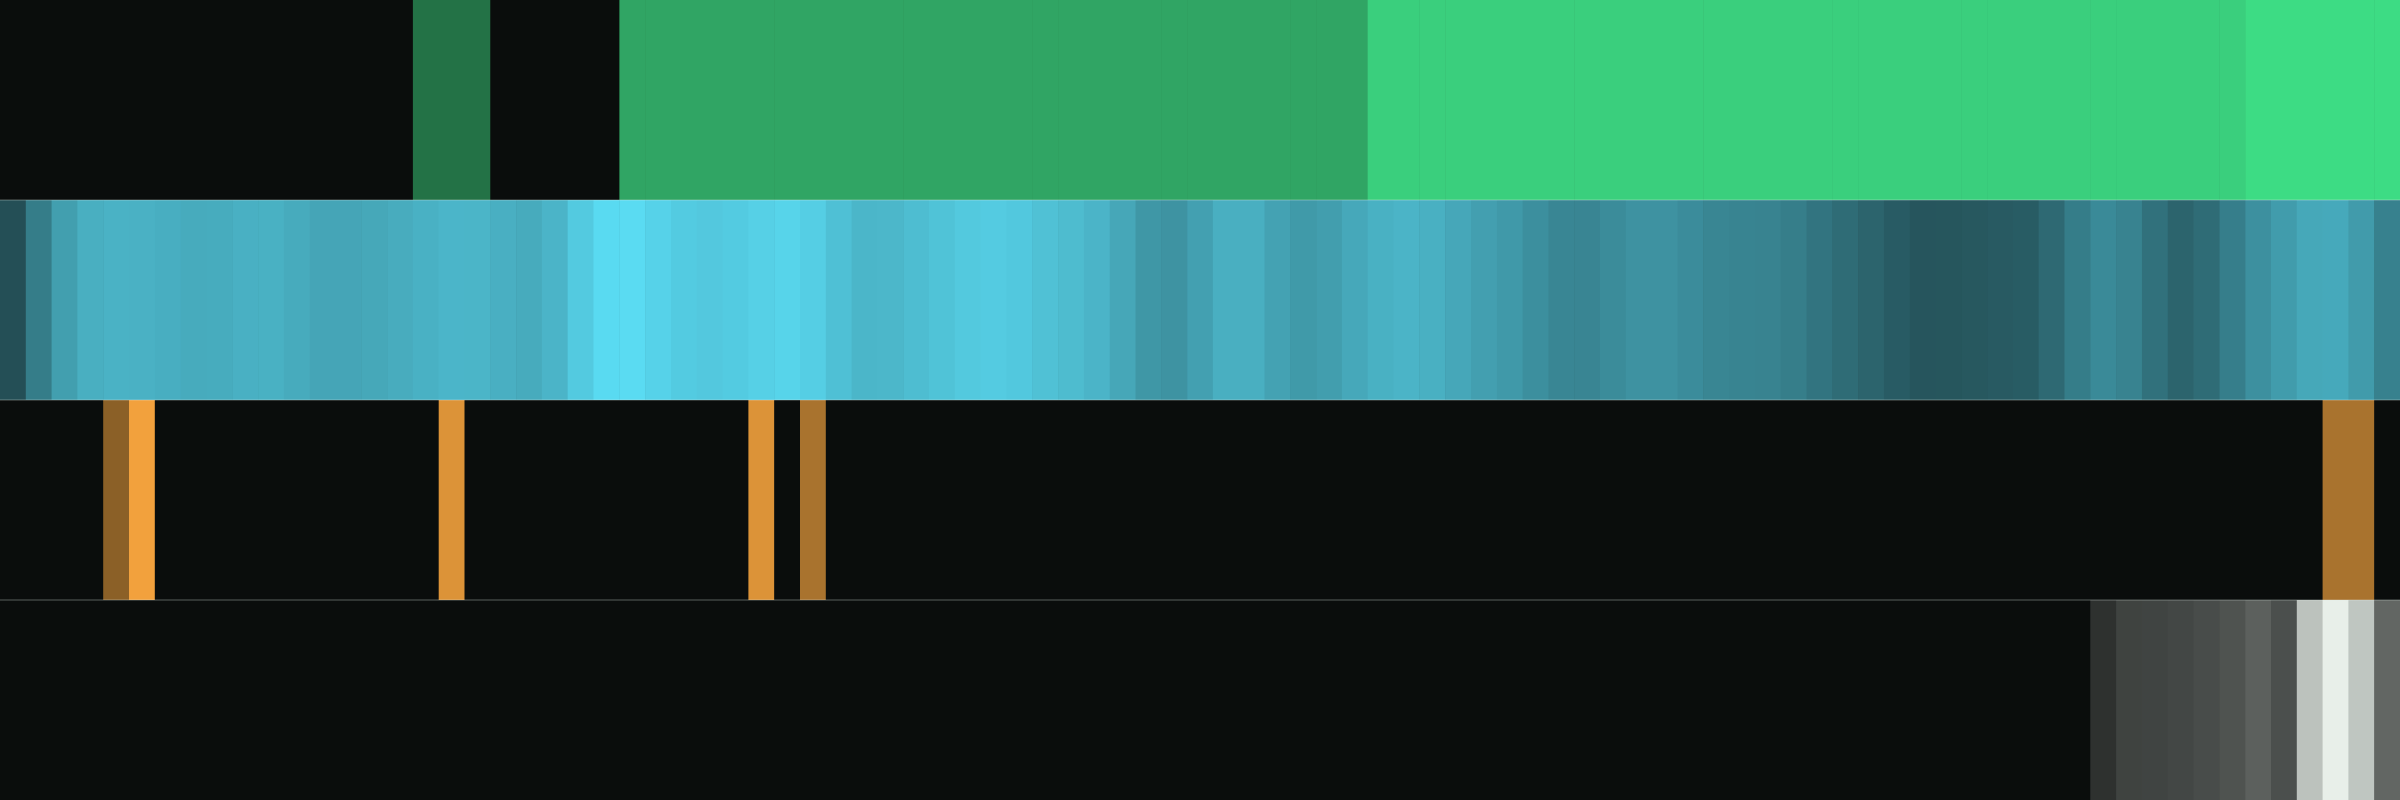
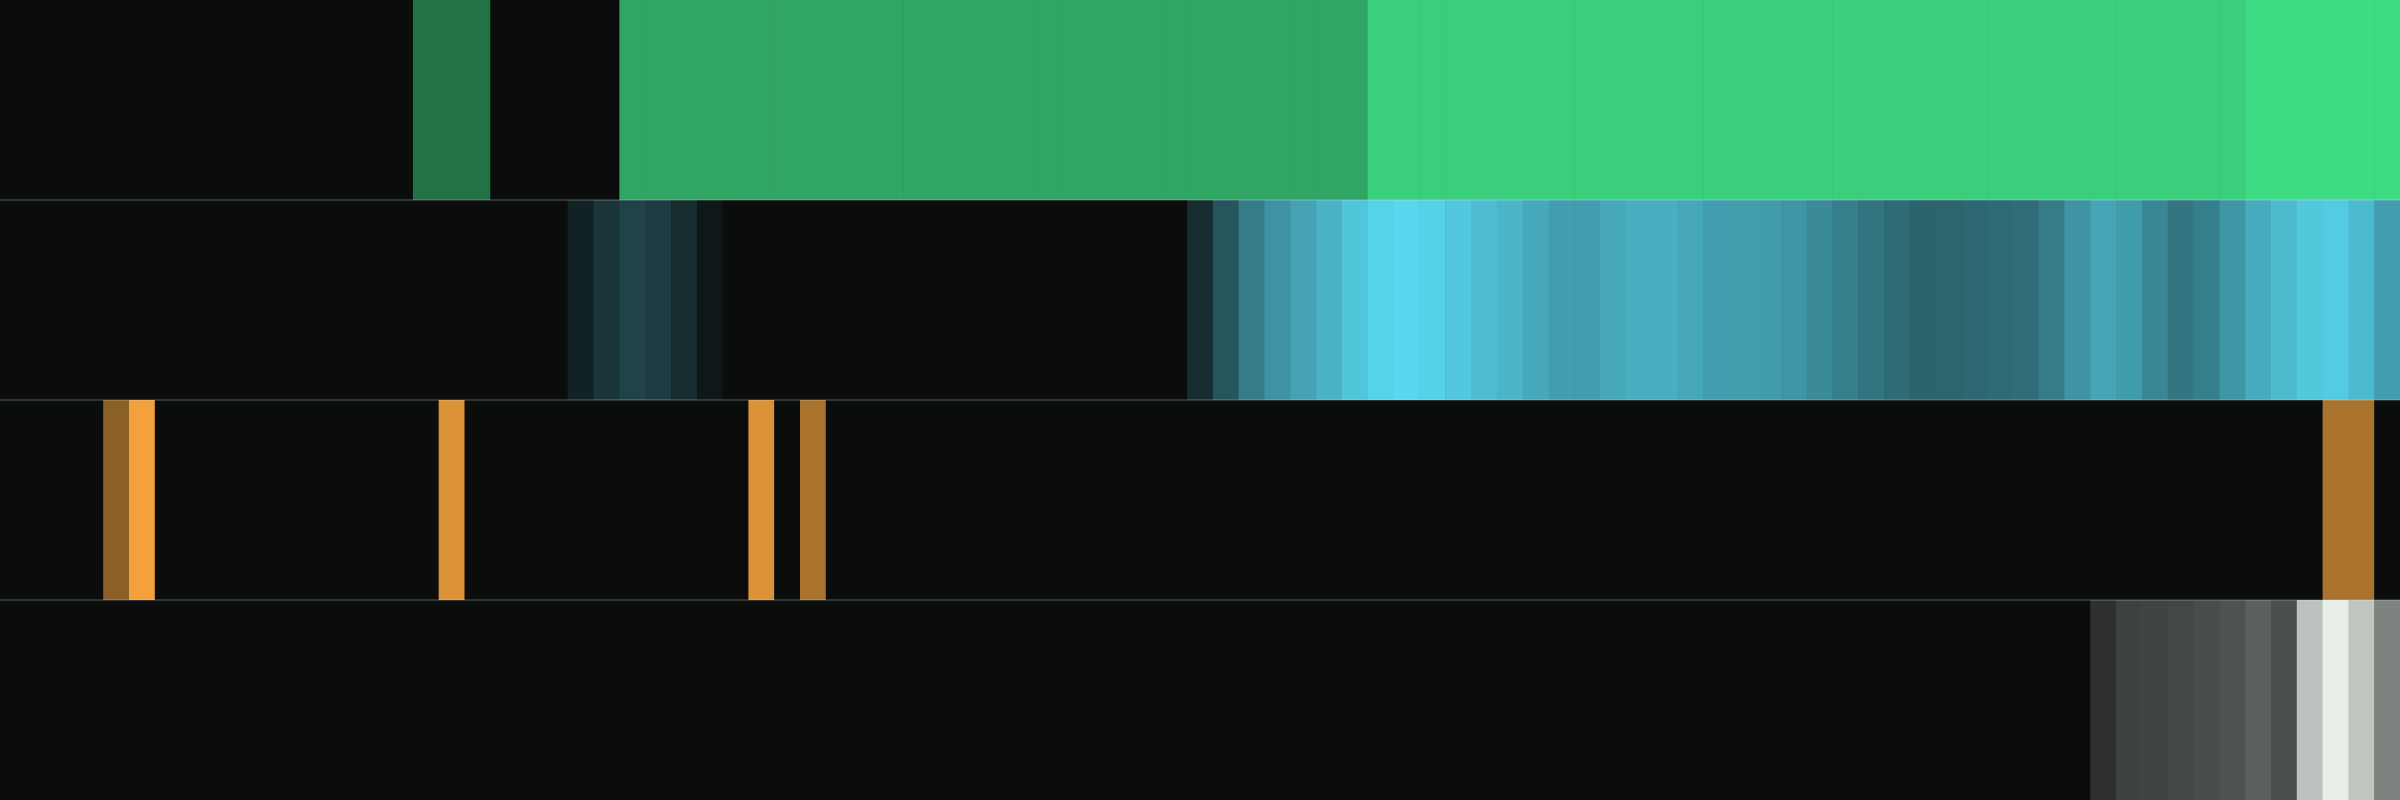
chore: regenerate derived data for today's date
Generator outputs only — timestamps, the sitemap's lastmod dates, and
the chess/world lanes' live archive data refreshed by their own
generators (gen-timeline, gen-world-plate, gen-system-graph). No hand
edits.

Changed region(s): [[0.0, 0.25, 0.75, 0.5], [0.8438, 0.25, 1.0, 0.5], [0.9688, 0.75, 1.0, 1.0]]

diff --git a/src/data/timeline.ts b/src/data/timeline.ts
@@ -25,7 +25,7 @@ export interface Timeline {
 }
 
 export const timeline: Timeline = {
-  "generatedAt": "2026-09-04T22:20:23.131Z",
+  "generatedAt": "2026-09-07T08:02:07.169Z",
   "from": "2019-01",
   "to": "2026-09",
   "months": [
@@ -397,65 +397,65 @@ export const timeline: Timeline = {
       "source": "lichess game archive plus chess.com monthly archives, one row per game, from BOTH platforms, because he moved from one to the other in 2023 and a lane built on either alone reads as though he stopped",
       "months": {
         "2019-01": 0,
-        "2019-02": 81,
-        "2019-03": 220,
-        "2019-04": 317,
-        "2019-05": 195,
-        "2019-06": 264,
-        "2019-07": 266,
-        "2019-08": 184,
-        "2019-09": 184,
-        "2019-10": 266,
-        "2019-11": 301,
-        "2019-12": 203,
-        "2020-01": 136,
-        "2020-02": 236,
-        "2020-03": 173,
-        "2020-04": 220,
-        "2020-05": 239,
-        "2020-06": 292,
-        "2020-07": 274,
-        "2020-08": 271,
-        "2020-09": 177,
-        "2020-10": 135,
-        "2020-11": 495,
-        "2020-12": 619,
-        "2021-01": 606,
-        "2021-02": 370,
-        "2021-03": 390,
-        "2021-04": 377,
-        "2021-05": 361,
-        "2021-06": 431,
-        "2021-07": 514,
-        "2021-08": 505,
-        "2021-09": 325,
-        "2021-10": 152,
-        "2021-11": 315,
-        "2021-12": 339,
-        "2022-01": 296,
-        "2022-02": 393,
-        "2022-03": 442,
-        "2022-04": 466,
-        "2022-05": 221,
-        "2022-06": 358,
-        "2022-07": 287,
-        "2022-08": 209,
-        "2022-09": 126,
-        "2022-10": 51,
-        "2022-11": 162,
-        "2022-12": 355,
-        "2023-01": 268,
-        "2023-02": 168,
-        "2023-03": 83,
-        "2023-04": 158,
-        "2023-05": 246,
-        "2023-06": 202,
-        "2023-07": 329,
-        "2023-08": 253,
-        "2023-09": 205,
+        "2019-02": 0,
+        "2019-03": 0,
+        "2019-04": 0,
+        "2019-05": 0,
+        "2019-06": 0,
+        "2019-07": 0,
+        "2019-08": 0,
+        "2019-09": 0,
+        "2019-10": 0,
+        "2019-11": 0,
+        "2019-12": 0,
+        "2020-01": 0,
+        "2020-02": 0,
+        "2020-03": 0,
+        "2020-04": 0,
+        "2020-05": 0,
+        "2020-06": 0,
+        "2020-07": 0,
+        "2020-08": 0,
+        "2020-09": 0,
+        "2020-10": 0,
+        "2020-11": 0,
+        "2020-12": 0,
+        "2021-01": 17,
+        "2021-02": 2,
+        "2021-03": 0,
+        "2021-04": 0,
+        "2021-05": 0,
+        "2021-06": 0,
+        "2021-07": 0,
+        "2021-08": 0,
+        "2021-09": 0,
+        "2021-10": 0,
+        "2021-11": 0,
+        "2021-12": 0,
+        "2022-01": 0,
+        "2022-02": 0,
+        "2022-03": 0,
+        "2022-04": 0,
+        "2022-05": 0,
+        "2022-06": 0,
+        "2022-07": 0,
+        "2022-08": 0,
+        "2022-09": 0,
+        "2022-10": 0,
+        "2022-11": 0,
+        "2022-12": 0,
+        "2023-01": 71,
+        "2023-02": 98,
+        "2023-03": 47,
+        "2023-04": 141,
+        "2023-05": 245,
+        "2023-06": 200,
+        "2023-07": 328,
+        "2023-08": 251,
+        "2023-09": 204,
         "2023-10": 99,
         "2023-11": 238,
-        "2023-12": 104,
+        "2023-12": 95,
         "2024-01": 49,
         "2024-02": 95,
         "2024-03": 98,
@@ -468,7 +468,7 @@ export const timeline: Timeline = {
         "2024-10": 83,
         "2024-11": 34,
         "2024-12": 47,
-        "2025-01": 31,
+        "2025-01": 28,
         "2025-02": 19,
         "2025-03": 9,
         "2025-04": 20,
@@ -488,12 +488,12 @@ export const timeline: Timeline = {
         "2026-06": 296,
         "2026-07": 272,
         "2026-08": 205,
-        "2026-09": 33
+        "2026-09": 44
       },
-      "total": 18995,
+      "total": 4887,
       "peak": {
-        "ym": "2020-12",
-        "v": 619
+        "ym": "2023-07",
+        "v": 328
       }
     },
     {
@@ -721,10 +721,10 @@ export const timeline: Timeline = {
         "2026-05": 49,
         "2026-06": 1391,
         "2026-07": 2906,
-        "2026-08": 1481,
-        "2026-09": 131
+        "2026-08": 1479,
+        "2026-09": 333
       },
-      "total": 6437,
+      "total": 6637,
       "peak": {
         "ym": "2026-07",
         "v": 2906

diff --git a/src/data/ops.ts b/src/data/ops.ts
@@ -23,13 +23,13 @@ export const perimeter = [
   },
   {
     "file": "systemGraph.ts",
-    "generatedAt": "2026-09-06",
+    "generatedAt": "2026-09-07",
     "slaDays": 45,
     "generator": "npm run gen:system-graph"
   },
   {
     "file": "timeline.ts",
-    "generatedAt": "2026-09-04",
+    "generatedAt": "2026-09-07",
     "slaDays": 45,
     "generator": "npm run gen:timeline"
   },
@@ -213,4 +213,4 @@ export const drift: Drift[] = [
   }
 ];
 
-export const opsGeneratedAt = "2026-09-06";
+export const opsGeneratedAt = "2026-09-07";

diff --git a/src/data/systemGraph.ts b/src/data/systemGraph.ts
@@ -13,7 +13,7 @@ export interface SystemEdge { from: string; to: string; kind: SystemEdgeKind; ev
 export interface SystemGraph { generatedAt: string; nodes: SystemNode[]; edges: SystemEdge[] }
 
 export const systemGraph: SystemGraph = {
-  "generatedAt": "2026-09-06",
+  "generatedAt": "2026-09-07",
   "nodes": [
     {
       "id": "gaddi",

diff --git a/src/world/corridorPlate.ts b/src/world/corridorPlate.ts
@@ -27,7 +27,7 @@ export interface CorridorPlateMeta {
   years: CorridorPlateYear[];
 }
 export const corridorPlateMeta: CorridorPlateMeta = {
-  "generatedAt": "2026-09-06T11:37:09.902Z",
+  "generatedAt": "2026-09-07T08:02:08.204Z",
   "width": 2400,
   "height": 800,
   "from": "2019-01",
